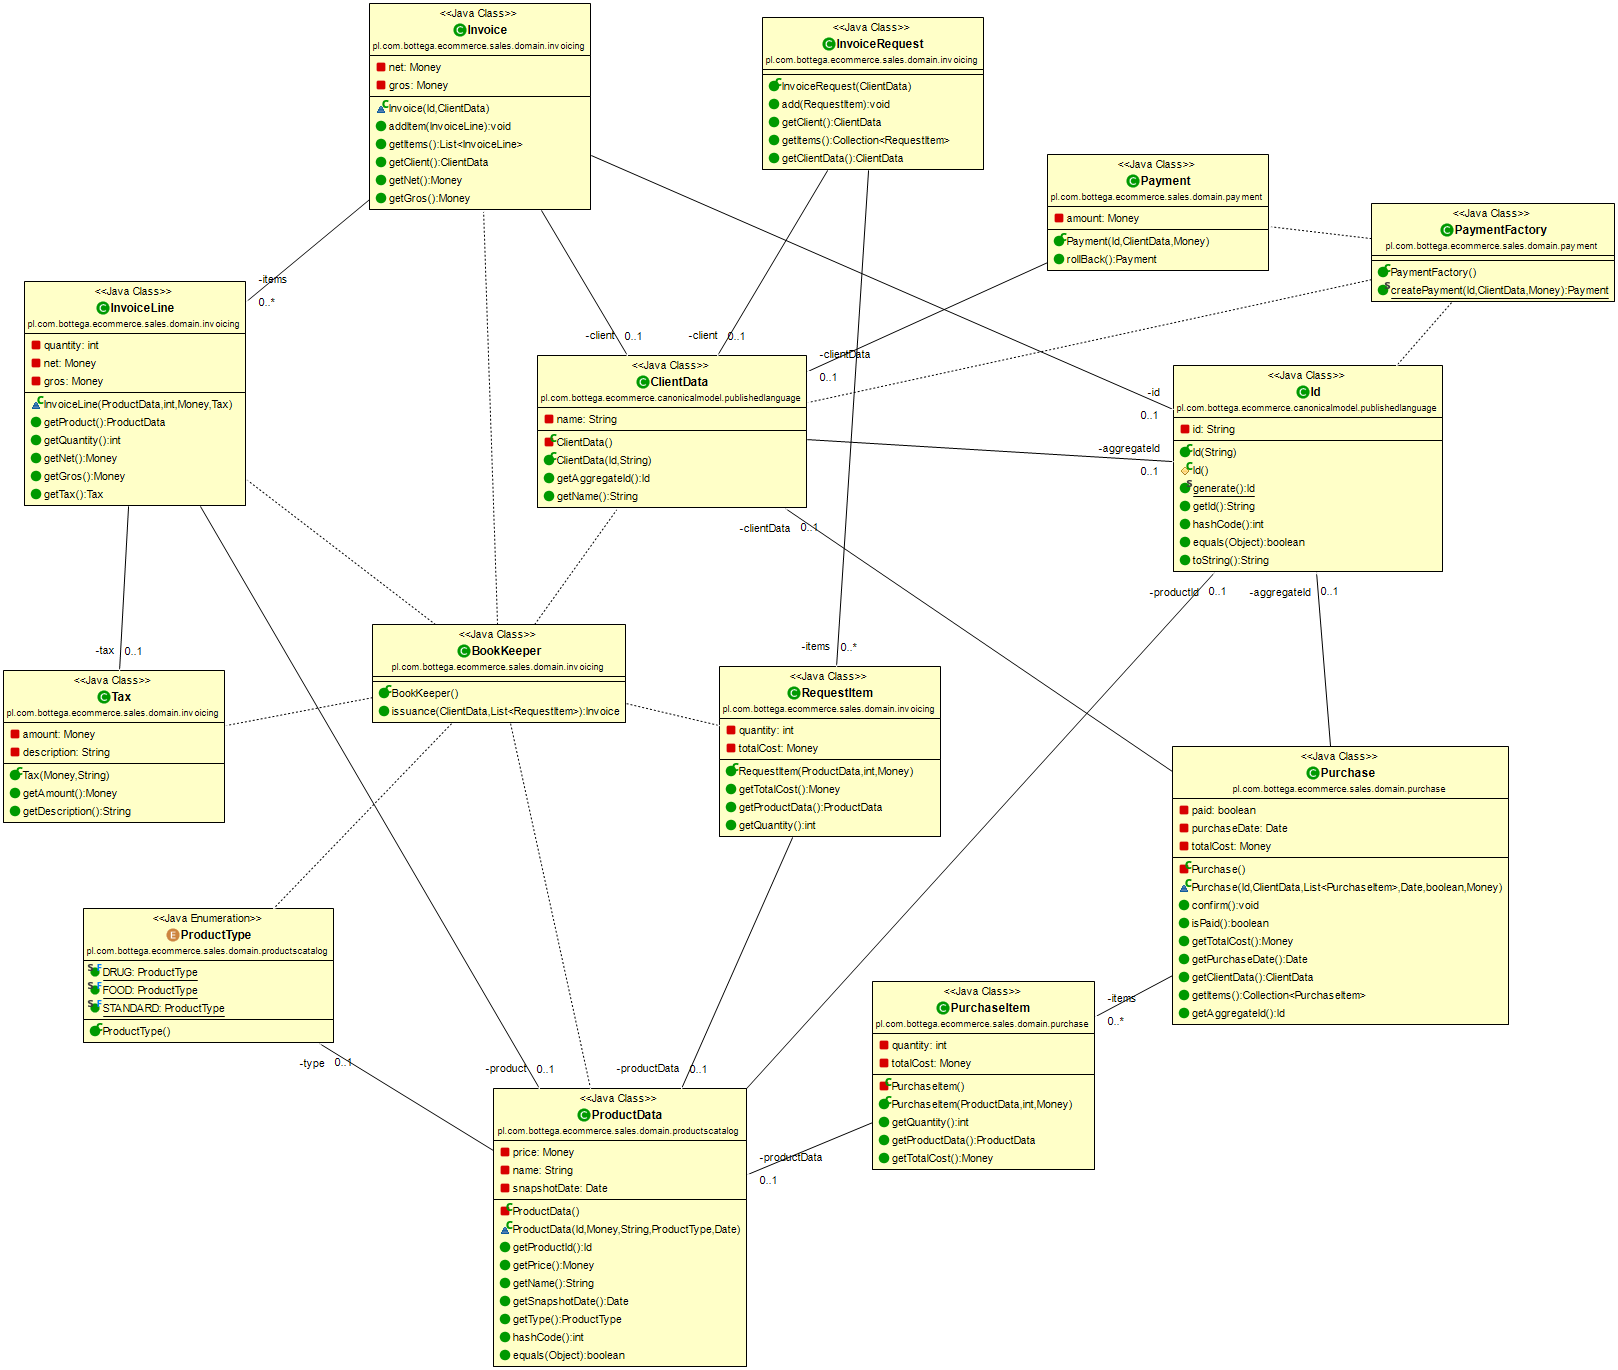
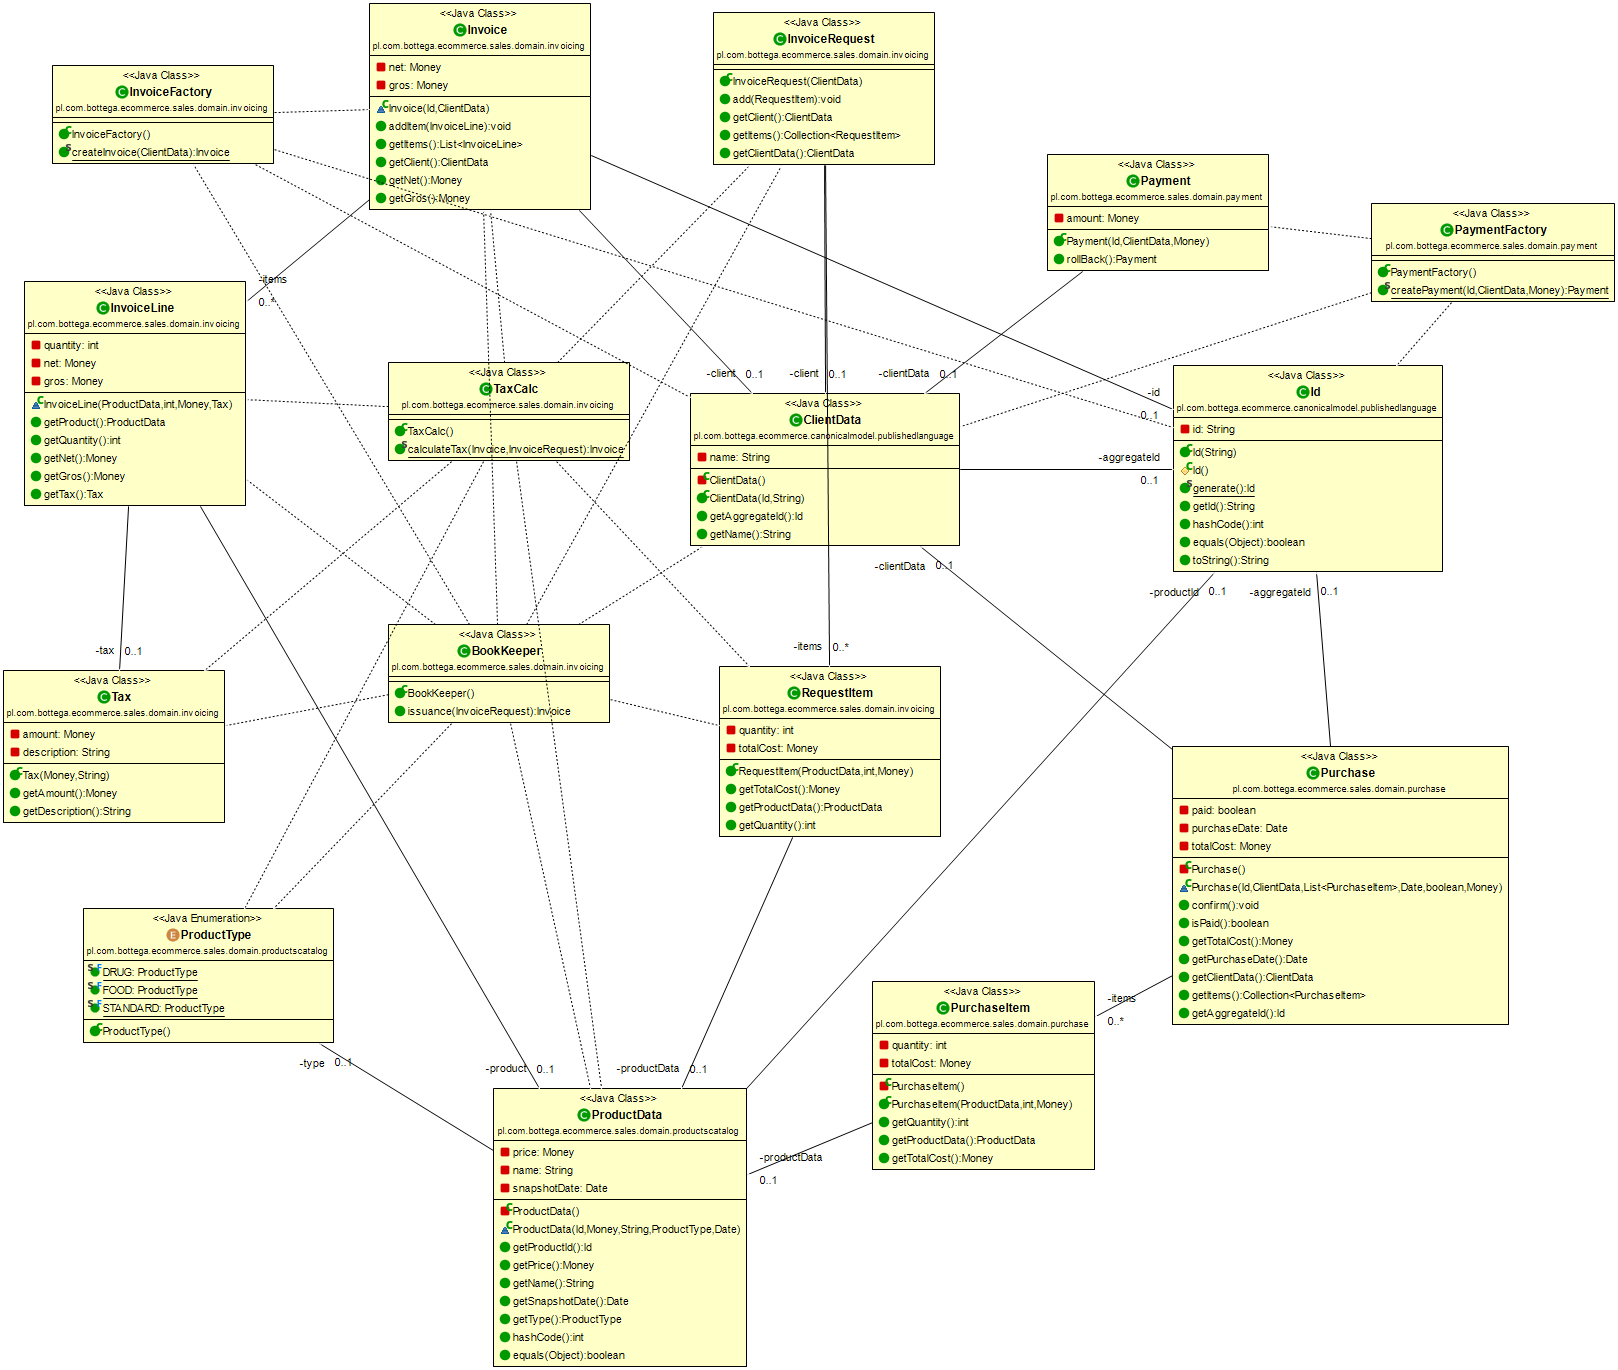
Updated UML diagram, added TaxCalc to calculate Tax

diff --git a/src/main/java/pl/com/bottega/ecommerce/sales/domain/invoicing/BookKeeper.java b/src/main/java/pl/com/bottega/ecommerce/sales/domain/invoicing/BookKeeper.java
@@ -12,49 +12,10 @@
  */
 package pl.com.bottega.ecommerce.sales.domain.invoicing;
 
-import java.math.BigDecimal;
-import java.util.List;
-
-import pl.com.bottega.ecommerce.canonicalmodel.publishedlanguage.ClientData;
-import pl.com.bottega.ecommerce.sharedkernel.Money;
-
 public class BookKeeper {
 
-    public Invoice issuance(ClientData client, List<RequestItem> items) {
-        Invoice invoice = InvoiceFactory.createInvoice(client);
-
-        for (RequestItem item : items) {
-            Money net = item.getTotalCost();
-            BigDecimal ratio = null;
-            String desc = null;
-
-            switch (item.getProductData().getType()) {
-                case DRUG:
-                    ratio = BigDecimal.valueOf(0.05);
-                    desc = "5% (D)";
-                    break;
-                case FOOD:
-                    ratio = BigDecimal.valueOf(0.07);
-                    desc = "7% (F)";
-                    break;
-                case STANDARD:
-                    ratio = BigDecimal.valueOf(0.23);
-                    desc = "23%";
-                    break;
-
-                default:
-                    throw new IllegalArgumentException(item.getProductData().getType() + " not handled");
-            }
-
-            Money taxValue = net.multiplyBy(ratio);
-
-            Tax tax = new Tax(taxValue, desc);
-
-            InvoiceLine invoiceLine = new InvoiceLine(item.getProductData(), item.getQuantity(), net, tax);
-            invoice.addItem(invoiceLine);
-        }
-
-        return invoice;
+    public Invoice issuance(InvoiceRequest invoiceRequest) {
+        return TaxCalc.calculateTax(InvoiceFactory.createInvoice(invoiceRequest.getClient()), invoiceRequest);
     }
 
 }

diff --git a/src/main/java/pl/com/bottega/ecommerce/sales/domain/invoicing/TaxCalc.java b/src/main/java/pl/com/bottega/ecommerce/sales/domain/invoicing/TaxCalc.java
@@ -1,0 +1,43 @@
+package pl.com.bottega.ecommerce.sales.domain.invoicing;
+
+import java.math.BigDecimal;
+
+import pl.com.bottega.ecommerce.sharedkernel.Money;
+
+public class TaxCalc {
+
+    public static Invoice calculateTax(Invoice invoice, InvoiceRequest invoiceRequest) {
+        for (RequestItem item : invoiceRequest.getItems()) {
+            Money net = item.getTotalCost();
+            BigDecimal ratio = null;
+            String desc = null;
+
+            switch (item.getProductData().getType()) {
+                case DRUG:
+                    ratio = BigDecimal.valueOf(0.05);
+                    desc = "5% (D)";
+                    break;
+                case FOOD:
+                    ratio = BigDecimal.valueOf(0.07);
+                    desc = "7% (F)";
+                    break;
+                case STANDARD:
+                    ratio = BigDecimal.valueOf(0.23);
+                    desc = "23%";
+                    break;
+
+                default:
+                    throw new IllegalArgumentException(item.getProductData().getType() + " not handled");
+            }
+
+            Money taxValue = net.multiplyBy(ratio);
+
+            Tax tax = new Tax(taxValue, desc);
+
+            InvoiceLine invoiceLine = new InvoiceLine(item.getProductData(), item.getQuantity(), net, tax);
+            invoice.addItem(invoiceLine);
+        }
+        return invoice;
+    }
+
+}
